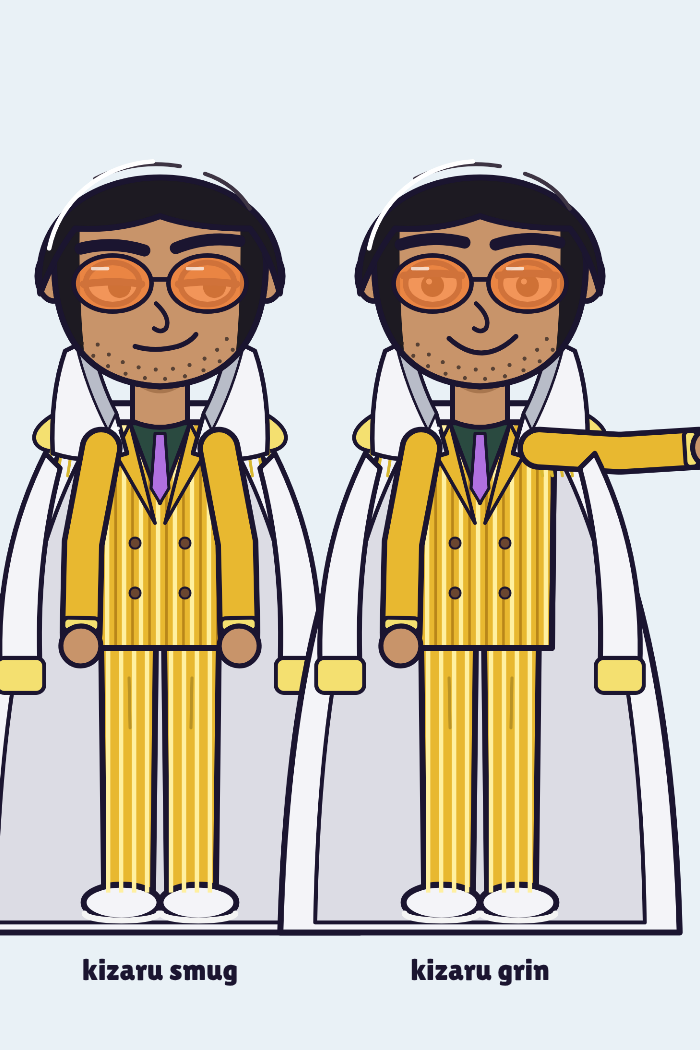
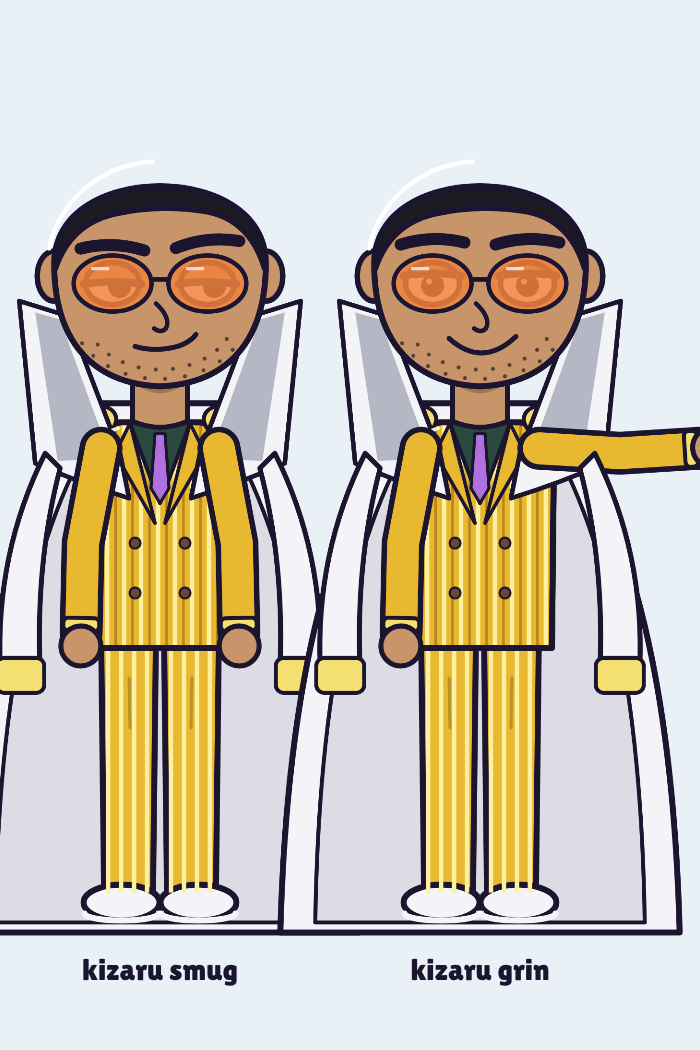
Kizaru: tall collar with grey inside like the close-up; short hair, ears visible
Claude-Session: https://claude.ai/code/session_01LedSfqc1zbW4UvWfiqXE3c

Changed region(s): [[0.48, 0.1524, 0.9, 0.4876], [0.0, 0.1524, 0.45, 0.4876]]

diff --git a/engine/art.js b/engine/art.js
@@ -153,7 +153,7 @@ export const LOOKS = {
           top: 'bonclay', cloakCol: '#f4a8c8', fur: true, pants: '#e8b88a', shoe: '#f8d8e0', boots: false, arm: '#f4a8c8', cuff: '#ffffff' },
   caesar: { skin: '#e8e0e8', skinD: '#c8bcc8', hair: '#1d1a22', hairL: '#3d3443', hairStyle: 'wild', longWild: true, goatHorns: true, grinWide: true, lips: true,
           top: 'caesar', pants: '#d8b8f0', shoe: '#d8b8f0', boots: false, arm: '#f4f8fc', glove: '#2a2450', cuff: '#f4f8fc' },
-  kizaru: { skin: '#c8946a', skinD: '#a8764e', hair: '#1d1a22', hairL: '#3d3443', hairStyle: 'curly', sideburns: true, shadesOrange: true, stubble: true, popCollar: true, coatSleeves: true, fit: 1.04,
+  kizaru: { skin: '#c8946a', skinD: '#a8764e', hair: '#1d1a22', hairL: '#3d3443', hairStyle: 'short', shadesOrange: true, stubble: true, popCollar: true, coatSleeves: true, fit: 1.04,
           top: 'kizaru', cloakCol: '#f4f4f8', cloakLining: '#dcdce4', pants: '#e8b830', pantsStripes: '#fff0a0', shoe: '#f4f4f8', boots: false, arm: '#e8b830', cuff: '#f4e070', glove: '#c8946a' },
   sabo: { skin: '#f7cc9c', skinD: '#e2ab78', hair: '#f2cf55', hairL: '#ffe58a', hairStyle: 'curly', hat: 'top', scar: true,
           top: 'coat', cloth: '#2f4f8f', clothD: '#223a6c', inner: '#f4f1ea', innerD: '#cfc8b8', cravat: true, pants: '#3a3340', shoe: '#6b4630', boots: true, cuff: '#f4f1ea' },
@@ -326,10 +326,11 @@ function drawTorso(x, L) {
     x.beginPath(); x.moveTo(320, 640); x.lineTo(380, 800); x.lineTo(440, 640); x.closePath(); fs(x, '#2a4a40', 8); x.beginPath(); x.moveTo(370, 660); x.lineTo(390, 660); x.lineTo(398, 770); x.lineTo(380, 800); x.lineTo(362, 770); x.closePath(); fs(x, '#b070e0', 6);
     for (const sd of [-1, 1]) { x.beginPath(); x.moveTo(380 + sd * 60, 640); x.lineTo(380 + sd * 10, 840); x.lineTo(380 + sd * 90, 700); x.closePath(); fs(x, '#e8b830', 7); for (const yy of [880, 980]) { x.beginPath(); x.arc(380 + sd * 50, yy, 11, 0, 7); fs(x, '#6b4630', 4); } }
     for (const sd of [-1, 1]) { x.beginPath(); x.ellipse(380 + sd * 170, 650, 85, 42, sd * 0.3, 0, 7); fs(x, '#f4e070', 8); x.strokeStyle = '#d8b830'; x.lineWidth = 6; for (let k = 0; k < 6; k++) { x.beginPath(); x.moveTo(380 + sd * (115 + k * 20), 680); x.lineTo(380 + sd * (125 + k * 20), 745); x.stroke(); } }
-    if (L.popCollar) for (const sd of [-1, 1]) { // white coat collar standing up around the neck (in front of the epaulettes), grey inside
+    if (L.popCollar) for (const sd of [-1, 1]) { // tall coat collar standing up beside the face: white outside, big grey inside, thin white inner edge
       const P = (px, py) => [380 + sd * px, py];
-      x.beginPath(); x.moveTo(...P(215, 700)); x.quadraticCurveTo(...P(220, 580), ...P(190, 495)); x.lineTo(...P(140, 470)); x.quadraticCurveTo(...P(120, 560), ...P(88, 620)); x.lineTo(...P(66, 700)); x.quadraticCurveTo(...P(140, 725), ...P(215, 700)); x.closePath(); fs(x, '#f4f4f8', 9);
-      x.beginPath(); x.moveTo(...P(140, 470)); x.quadraticCurveTo(...P(120, 560), ...P(88, 620)); x.lineTo(...P(104, 655)); x.quadraticCurveTo(...P(148, 570), ...P(168, 482)); x.closePath(); fs(x, '#b8bcc8', 5); }
+      x.beginPath(); x.moveTo(...P(250, 720)); x.lineTo(...P(282, 395)); x.lineTo(...P(185, 425)); x.lineTo(...P(80, 700)); x.lineTo(...P(62, 790)); x.quadraticCurveTo(...P(160, 760), ...P(250, 720)); x.closePath(); fs(x, '#f4f4f8', 9);
+      x.beginPath(); x.moveTo(...P(200, 432)); x.lineTo(...P(250, 418)); x.lineTo(...P(205, 715)); x.lineTo(...P(98, 712)); x.closePath(); fs(x, '#b4b8c4', 0);
+      x.beginPath(); x.moveTo(...P(250, 720)); x.lineTo(...P(282, 395)); x.lineTo(...P(185, 425)); x.lineTo(...P(80, 700)); x.lineTo(...P(62, 790)); x.lineWidth = 9; x.strokeStyle = OL; x.stroke(); }
   } else if (L.top === 'peacoat') { // short double-breasted coat with gold buttons and a high collar
     x.beginPath(); x.moveTo(232, 720); x.quadraticCurveTo(236, 650, 300, 638); x.lineTo(460, 638); x.quadraticCurveTo(524, 650, 528, 720); x.lineTo(540, 1130); x.lineTo(220, 1130); x.closePath(); fs(x, L.cloth, 12);
     x.fillStyle = '#e8b52e'; for (let r = 0; r < 3; r++) for (const sd of [-1, 1]) { x.beginPath(); x.arc(380 + sd * 55, 760 + r * 110, 16, 0, 7); x.fill(); }
